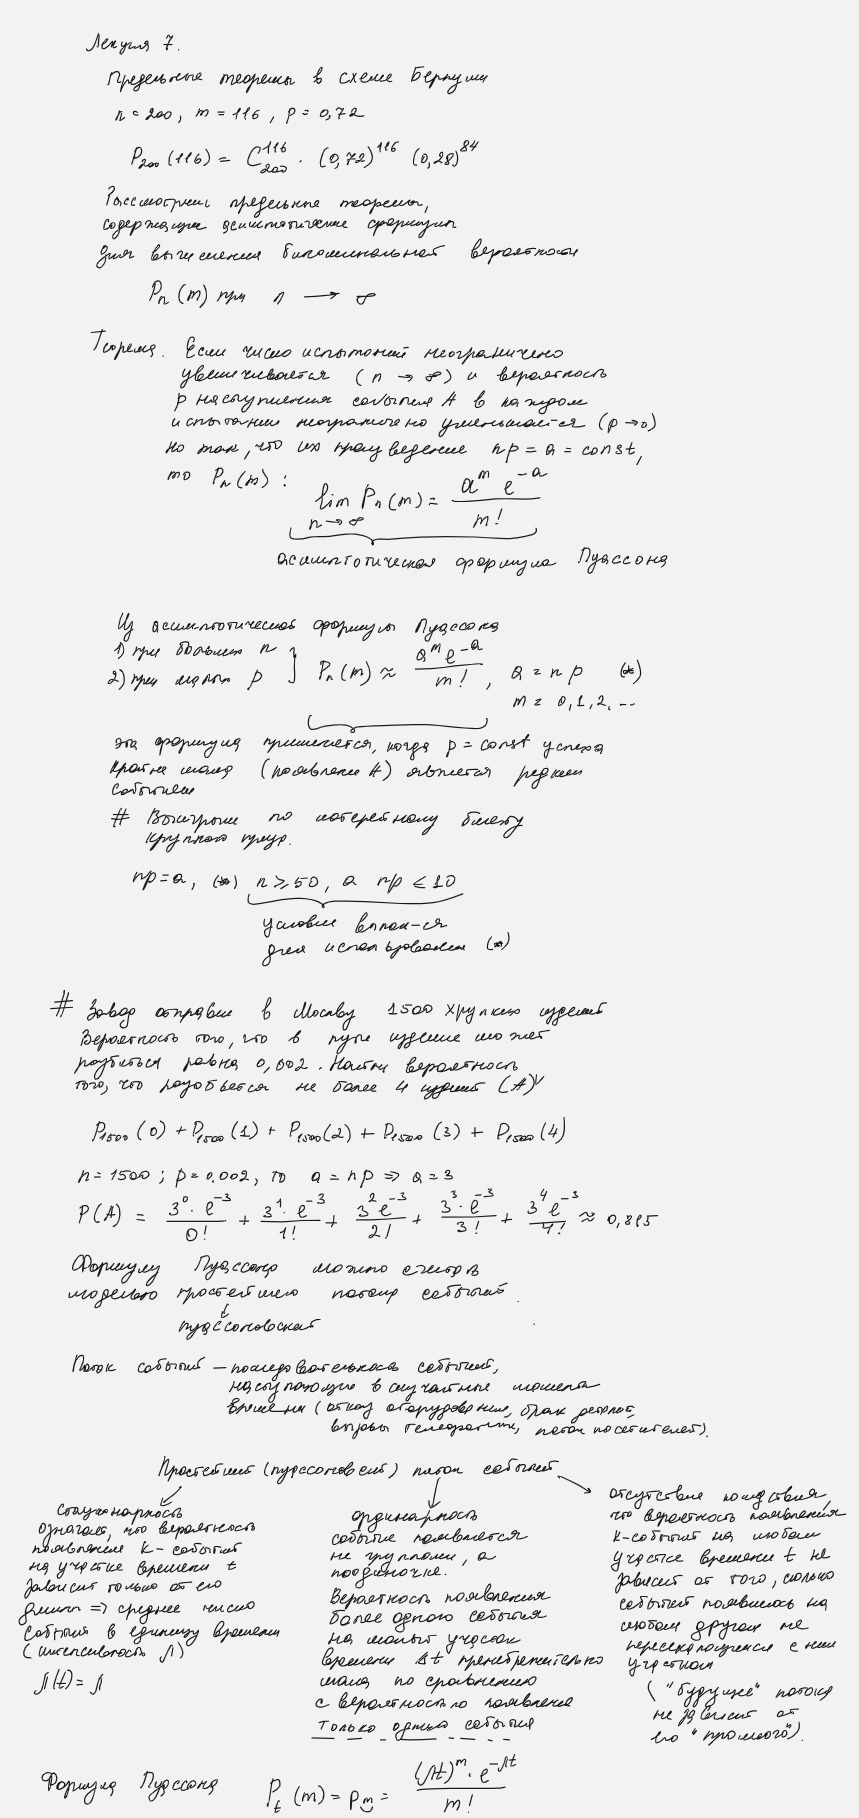
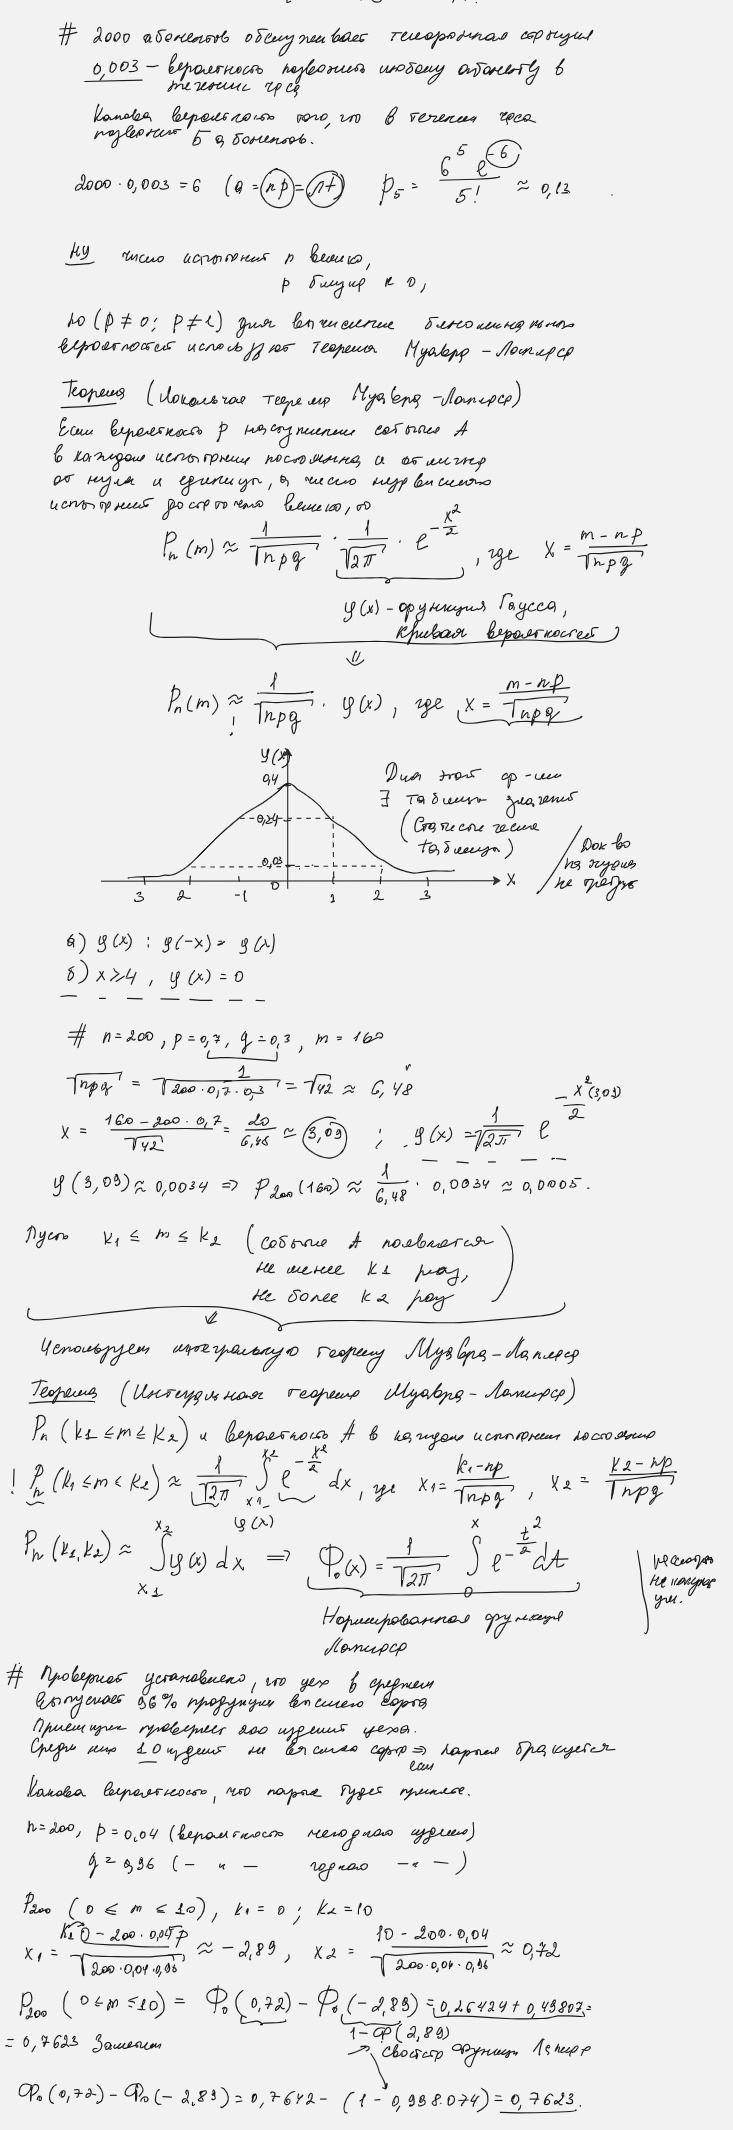
Updated TEORVER

diff --git a/README.MD b/README.MD
@@ -31,8 +31,8 @@
 | [Компьютерные сети](/2_COMPNET) | | 🟢 | | | | | | | |
 | [Философия](/2_PHYLOSOPHY) | | 🟩 | | | | | | | |
 | [Механика](/2-3_PHYSICS) | | 🟩 | | | | | | | |
-| [Электромагнитные явления](/2-3_PHYSICS) | | | ⬜ | | | | | | |
-| [Теория вероятностей](/3_TEORVER/) | | | ⬜ | | | | | | |
+| [Электромагнитные явления](/2-3_PHYSICS) | | | 🟩 | | | | | | |
+| [Теория вероятностей](/3_TEORVER/) | | | 🟩 | | | | | | |
 | [Численные методы моделирования](/3_NMM) | | | 🟩 | | | | | | |
 | Введение в технологическое предпринимательство | | | 🟩 | | | | | |
 | Прикладная статистика (база) | | | 🟢 | | | | | | `BLOCKED` |
